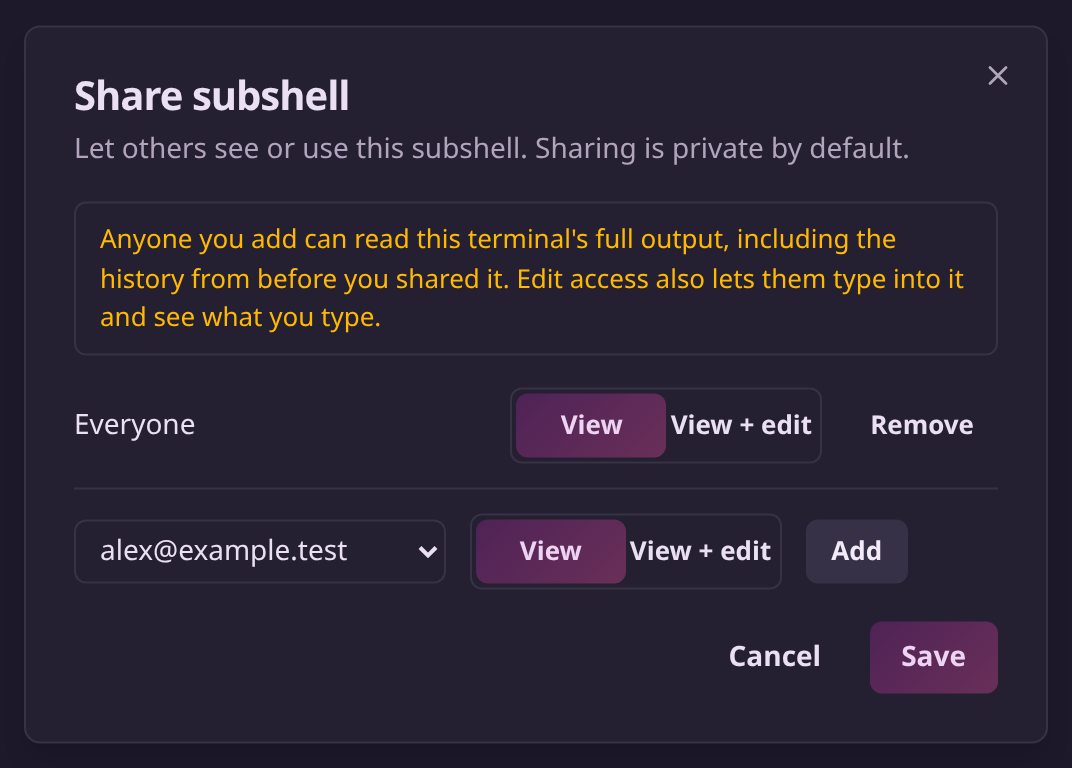
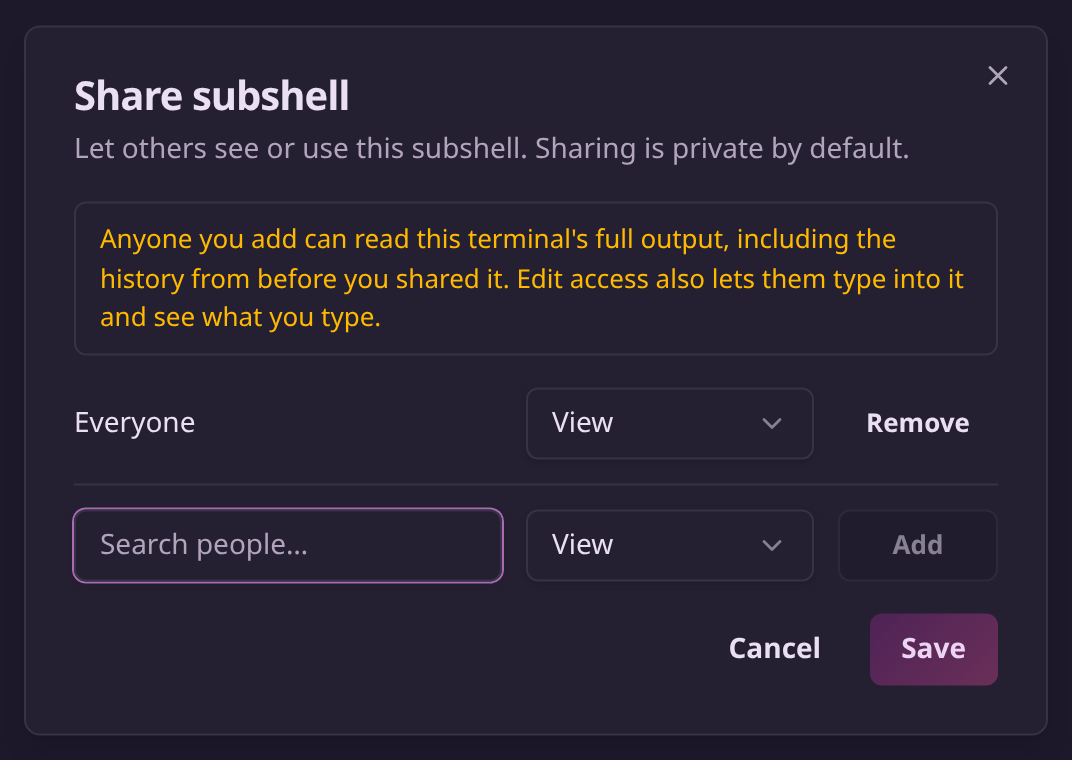
docs: showcase SSH forwarding and refresh sharing controls

diff --git a/apps/server/web/src/components/sharing-dialog-core.tsx b/apps/server/web/src/components/sharing-dialog-core.tsx
@@ -1,5 +1,6 @@
 import { Button, errMessage } from "@internal/node-admin";
-import { type ReactNode, useState } from "react";
+import { type ReactNode, useId, useState } from "react";
+import { SearchableSelect } from "@/components/ui/combobox";
 import {
   Dialog,
   DialogContent,
@@ -8,7 +9,7 @@ import {
   DialogHeader,
   DialogTitle,
 } from "@/components/ui/dialog";
-import { Segmented } from "@/components/ui/segmented";
+import { Select, SelectContent, SelectGroup, SelectItem, SelectTrigger, SelectValue } from "@/components/ui/select";
 import type { RosterUser, ShareDraft } from "@/hooks/use-subshell-shares";
 import type { SubshellAccess } from "@/types/subshell";
 
@@ -20,7 +21,34 @@ const LEVEL_OPTIONS: { value: ShareLevel; label: string }[] = [
   { value: "edit", label: "View + edit" },
 ];
 
-/** The Everyone grant's sentinel in the native picker (resolved to null on add). */
+function ShareLevelSelect({
+  label,
+  value,
+  onChange,
+}: {
+  label: string;
+  value: ShareLevel;
+  onChange: (value: ShareLevel) => void;
+}) {
+  return (
+    <Select items={LEVEL_OPTIONS} value={value} onValueChange={(level) => level && onChange(level)}>
+      <SelectTrigger aria-label={label} className="w-full">
+        <SelectValue />
+      </SelectTrigger>
+      <SelectContent>
+        <SelectGroup>
+          {LEVEL_OPTIONS.map((option) => (
+            <SelectItem key={option.value} value={option.value}>
+              {option.label}
+            </SelectItem>
+          ))}
+        </SelectGroup>
+      </SelectContent>
+    </Select>
+  );
+}
+
+/** The Everyone grant's sentinel in the picker (resolved to null on add). */
 const EVERYONE = "everyone";
 
 /**
@@ -86,8 +114,15 @@ export function SharingDialogCore({
   const [pickLevel, setPickLevel] = useState<ShareLevel>("view");
   const [error, setError] = useState<string | null>(null);
 
+  const pickerId = useId();
   const grants = draft ?? serverGrants;
   const alreadyShared = new Set(grants.map((g) => g.granteeUserId ?? EVERYONE));
+
+  const recipientOptions = [
+    { value: EVERYONE, label: "Everyone" },
+    ...roster.map((user) => ({ value: user.id, label: user.email, searchText: user.name })),
+  ].filter((option) => !alreadyShared.has(option.value));
+  const selectedRecipient = recipientOptions.some((option) => option.value === pickId) ? pickId : "";
 
   function handleClose(next: boolean) {
     if (!next) {
@@ -106,9 +141,11 @@ export function SharingDialogCore({
   }
 
   function addGrant() {
-    const granteeUserId = pickId === EVERYONE ? null : pickId;
+    if (!selectedRecipient) return;
+    const granteeUserId = selectedRecipient === EVERYONE ? null : selectedRecipient;
     // Replace any existing grant to the same target rather than duplicating.
     setDraft([...grants.filter((g) => g.granteeUserId !== granteeUserId), { granteeUserId, permission: pickLevel }]);
+    setPickId("");
   }
 
   async function save() {
@@ -137,27 +174,29 @@ export function SharingDialogCore({
           </p>
         )}
 
-        <div className="space-y-3">
+        <div className="flex flex-col gap-3">
           {isLoading && <p className="text-muted-foreground text-sm">Loading…</p>}
           {!isLoading && grants.length === 0 && (
             <p className="text-muted-foreground text-sm">Not shared with anyone yet.</p>
           )}
           {grants.map((g, i) => (
-            <div key={g.granteeUserId ?? EVERYONE} className="flex items-center justify-between gap-3">
-              <span className="min-w-0 flex-1 truncate text-sm">
+            <div
+              key={g.granteeUserId ?? EVERYONE}
+              className="grid grid-cols-[minmax(0,1fr)_5rem] items-center gap-3 sm:grid-cols-[minmax(0,1fr)_9rem_5rem]"
+            >
+              <span className="col-span-2 min-w-0 truncate text-sm sm:col-span-1">
                 {g.granteeUserId === null
                   ? "Everyone"
                   : (roster.find((u) => u.id === g.granteeUserId)?.email ?? g.granteeUserId)}
               </span>
               {canManage ? (
                 <>
-                  <Segmented
-                    ariaLabel={`Access for ${g.granteeUserId === null ? "Everyone" : "this user"}`}
-                    options={LEVEL_OPTIONS}
+                  <ShareLevelSelect
+                    label={`Access for ${g.granteeUserId === null ? "Everyone" : "this user"}`}
                     value={g.permission}
                     onChange={(level) => changeLevel(i, level)}
                   />
-                  <Button variant="ghost" size="sm" onClick={() => removeAt(i)} aria-label="Remove">
+                  <Button variant="ghost" size="sm" className="h-9" onClick={() => removeAt(i)} aria-label="Remove">
                     Remove
                   </Button>
                 </>
@@ -170,29 +209,29 @@ export function SharingDialogCore({
           ))}
 
           {canManage && (
-            <div className="flex flex-wrap items-center gap-3 border-t pt-3">
-              <select
-                value={pickId}
-                onChange={(e) => setPickId(e.target.value)}
-                aria-label="Share with"
-                className="h-8 rounded-md border bg-transparent px-2 text-sm"
+            <div className="grid grid-cols-[minmax(0,1fr)_5rem] items-center gap-3 border-t pt-3 sm:grid-cols-[minmax(0,1fr)_9rem_5rem]">
+              <div className="col-span-2 min-w-0 sm:col-span-1">
+                <label htmlFor={pickerId} className="sr-only">
+                  Share with
+                </label>
+                <SearchableSelect
+                  id={pickerId}
+                  value={selectedRecipient}
+                  onValueChange={setPickId}
+                  placeholder="Search people…"
+                  options={recipientOptions}
+                  emptyText="No matching people to add."
+                />
+              </div>
+              <ShareLevelSelect label="Access level to grant" value={pickLevel} onChange={setPickLevel} />
+              <Button
+                variant="outline"
+                size="sm"
+                className="h-9"
+                onClick={addGrant}
+                disabled={!selectedRecipient}
+                disabledReason="Choose who to share with first."
               >
-                {!alreadyShared.has(EVERYONE) && <option value={EVERYONE}>Everyone</option>}
-                {roster
-                  .filter((u) => !alreadyShared.has(u.id))
-                  .map((u) => (
-                    <option key={u.id} value={u.id}>
-                      {u.email}
-                    </option>
-                  ))}
-              </select>
-              <Segmented
-                ariaLabel="Access level to grant"
-                options={LEVEL_OPTIONS}
-                value={pickLevel}
-                onChange={setPickLevel}
-              />
-              <Button variant="outline" size="sm" onClick={addGrant}>
                 Add
               </Button>
             </div>

diff --git a/apps/website/components/feature-showcase.tsx b/apps/website/components/feature-showcase.tsx
@@ -27,9 +27,16 @@ const SHOTS = {
   sharing: {
     name: "session-sharing",
     width: 1072,
-    height: 768,
-    alt: "Subshell sharing dialog with separate View and View + edit permissions",
+    height: 760,
+    alt: "Subshell sharing dialog with permission dropdowns and a searchable recipient picker",
     caption: "Choose who can watch and who can type into the subshell.",
+  },
+  ssh: {
+    name: "ssh-connection",
+    width: 1200,
+    height: 1964,
+    alt: "SSH connection form with a connecting node, destination, authentication choices, and a local port forward",
+    caption: "Choose how to connect and forward ports through the same SSH connection.",
   },
   nodes: {
     name: "node-enrollment",
@@ -188,16 +195,17 @@ export function FeatureShowcase() {
           >
             Open a remote shell from your dashboard.
           </h2>
-        </div>
-        <div>
-          <p className="max-w-[60ch] text-[15px] leading-[1.8] text-[var(--dim)]">
+          <p className="mt-5 max-w-[44ch] text-[15px] leading-[1.8] text-[var(--dim)]">
             Connect over SSH and work in the terminal alongside your agents. Use keys from a connected node, choose a
             key from your own machine, or enter a password when connecting. Save frequently used connections as SSH
-            presets.
+            presets, including port forwards to reach a web app, database, or other service through the connection.
           </p>
           <div className="mt-5">
             <DocumentationLink path="/guides/ssh">Explore SSH connections</DocumentationLink>
           </div>
+        </div>
+        <div className="w-full max-w-[536px] justify-self-center">
+          <Screenshot shot={SHOTS.ssh} />
         </div>
       </section>
       <SecuritySection />

diff --git a/e2e/capture-docs.ts b/e2e/capture-docs.ts
@@ -97,6 +97,24 @@ try {
     await dialog.getByRole("button", { name: "Close", exact: true }).click();
   }
 
+  const enableSsh = await api.put("/api/nodes/local/ssh-enabled", { data: { on: true } });
+  expect(enableSsh.ok(), await enableSsh.text()).toBe(true);
+  await page.goto("/new?kind=ssh");
+  await expect(dialog.getByRole("button", { name: "SSH terminal", exact: true })).toHaveAttribute(
+    "aria-pressed",
+    "true",
+  );
+  await page.locator("#ssh-wizard-destination").fill("developer@build.example.com:22");
+  await dialog.getByRole("button", { name: "Add port forward", exact: true }).click();
+  await page.locator("#ssh-fwd-port").fill("8080");
+  await page.locator("#ssh-fwd-target-host").fill("127.0.0.1");
+  await page.locator("#ssh-fwd-target-port").fill("3000");
+  await dialog.getByRole("button", { name: "Add port forward", exact: true }).click();
+  await expect(dialog.getByRole("button", { name: "Remove this forward" })).toBeVisible();
+  // Capture connection choices without opening a connection to the sample address.
+  await capture(page, "ssh-connection", dialog);
+  await close();
+
   await page.goto("/presets");
   await expect(page.getByRole("button", { name: "Repository review", exact: true })).toBeVisible();
   await capture(page, "preset-library", page.locator("main h1"), card.last());
@@ -188,6 +206,7 @@ try {
     "preset-library",
     "session-sharing",
     "node-enrollment",
+    "ssh-connection",
   ]) {
     const encoded = spawnSync("ffmpeg", [
       "-v",

diff --git a/apps/server/web/src/components/__tests__/sharing-dialog.test.tsx b/apps/server/web/src/components/__tests__/sharing-dialog.test.tsx
@@ -71,7 +71,14 @@ describe("SharingDialog", () => {
       renderDialog();
       await screen.findByText("Everyone");
       // Choose bob from the roster, then Add.
-      fireEvent.change(screen.getByLabelText("Share with"), { target: { value: "u2" } });
+      const picker = screen.getByRole("combobox", { name: "Share with" });
+      fireEvent.mouseDown(picker);
+      fireEvent.click(picker);
+      await screen.findByRole("option", { name: "bob@subshell.local" });
+      fireEvent.change(picker, { target: { value: "nobody-matches" } });
+      await screen.findByText("No matching people to add.");
+      fireEvent.change(picker, { target: { value: "bob" } });
+      fireEvent.click(await screen.findByRole("option", { name: "bob@subshell.local" }));
       fireEvent.click(screen.getByRole("button", { name: "Add" }));
       expect(await screen.findByText("bob@subshell.local")).toBeDefined();
 

diff --git a/e2e/AGENTS.md b/e2e/AGENTS.md
@@ -176,7 +176,7 @@ layout changes. Never point it at the live server.
 For the other documentation screenshots, run `bun e2e/capture-docs.ts` after
 building the SPA. It uses the same isolated stack with sample presets, prompts,
 a workspace, and real terminal sessions running a small temporary project.
-No coding-agent responses are simulated. The script also refreshes the five
+No coding-agent responses are simulated. The script also refreshes the six
 marketing-site WebP copies using `ffmpeg`, which must be installed.
 
 Review every capture, update intrinsic dimensions in the referring MDX and

diff --git a/apps/website/AGENTS.md b/apps/website/AGENTS.md
@@ -84,7 +84,7 @@ and descriptive captions that do not require knowing abbreviations such as PWA.
 
 ## Feature screenshots
 
-The five feature screenshots come from `e2e/capture-docs.ts`, shared with the
+The six feature screenshots come from `e2e/capture-docs.ts`, shared with the
 documentation site. Capture at 2× with `e2e/screenshot.ts`, retain lossless WebP
 encoding, and use the product-colored screenshot frame tokens. The PNGs already
 include a consistent 12px margin; don't add another inset or a modal backdrop.

diff --git a/.changeset/ssh-forwarding-guide-screenshot.md b/.changeset/ssh-forwarding-guide-screenshot.md
@@ -1,0 +1,7 @@
+---
+"@internal/docs": patch
+---
+
+Expand the SSH port-forwarding guide with connection steps, local and remote examples, access rules, troubleshooting, and a screenshot of the SSH panel.
+
+Refresh the sharing screenshot and instructions for permission dropdowns and the searchable recipient picker.

diff --git a/.changeset/sharing-permission-selectors.md b/.changeset/sharing-permission-selectors.md
@@ -1,0 +1,5 @@
+---
+"@internal/server": patch
+---
+
+Use aligned permission dropdowns and a styled, searchable recipient picker in subshell and node sharing dialogs. Clear added recipients from the picker and require a valid selection before adding a grant.

diff --git a/.changeset/website-ssh-sharing-screenshots.md b/.changeset/website-ssh-sharing-screenshots.md
@@ -1,0 +1,5 @@
+---
+"@internal/website": patch
+---
+
+Show SSH port forwarding on the homepage with a new connection-panel screenshot, and refresh the sharing screenshot with permission dropdowns and recipient search.
